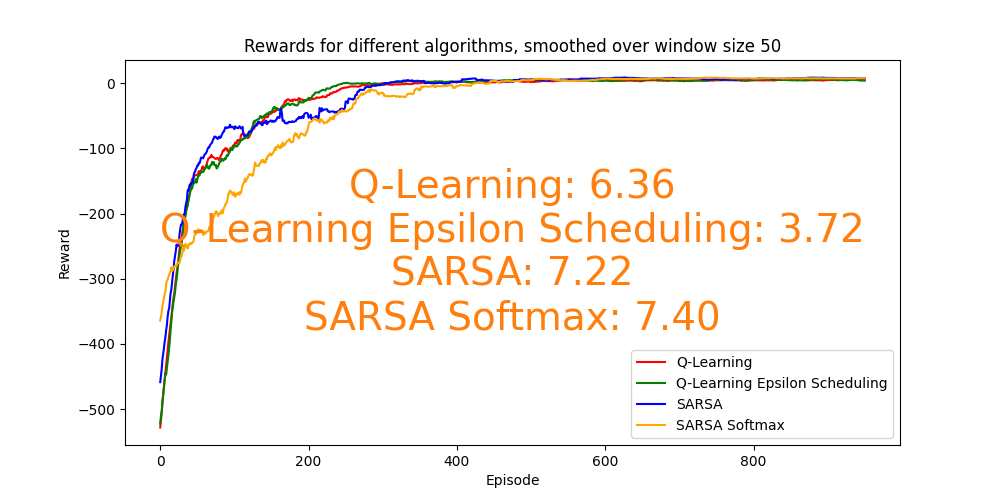
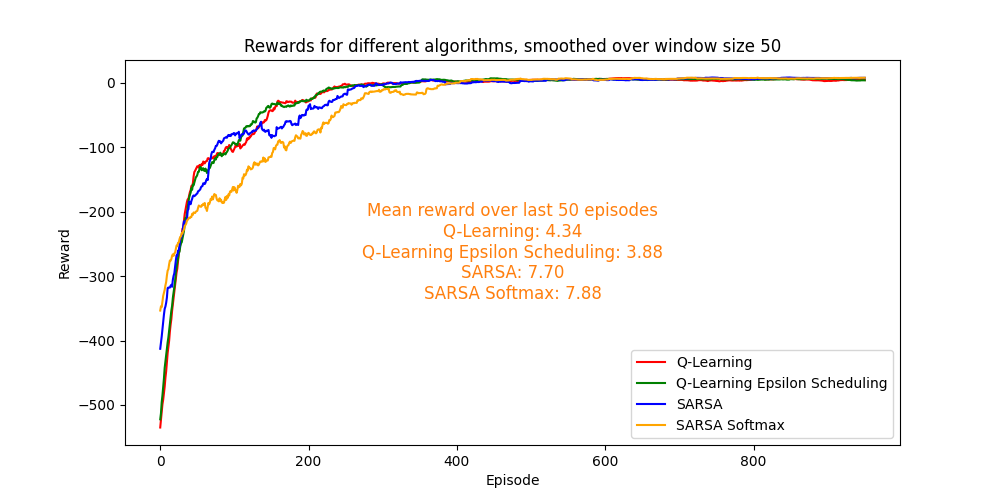
DOC(text): Improve explanation of ploted text.

diff --git a/taxi.py b/taxi.py
@@ -139,9 +139,10 @@ if __name__ == "__main__":
     ax.plot(sarsa_softmax_rewards, label="SARSA Softmax", color="orange")
 
     text_kwargs = dict(
-        ha="center", va="center", fontsize=28, color="C1", transform=ax.transAxes
+        ha="center", va="center", fontsize=12, color="C1", transform=ax.transAxes
     )
-    text_to_plot = f"Q-Learning: {final_ql_reward:.2f}"
+    text_to_plot = f"Mean reward over last {window} episodes"
+    text_to_plot += "\n" + f"Q-Learning: {final_ql_reward:.2f}"
     text_to_plot += "\n" + f"Q-Learning Epsilon Scheduling: {final_ql_eps_reward:.2f}"
     text_to_plot += "\n" + f"SARSA: {final_sarsa_reward:.2f}"
     text_to_plot += "\n" + f"SARSA Softmax: {final_sarsa_softmax_reward:.2f}"
